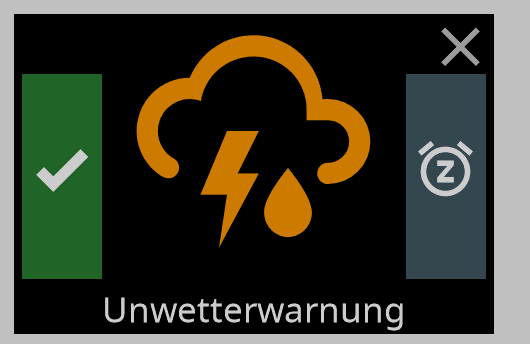
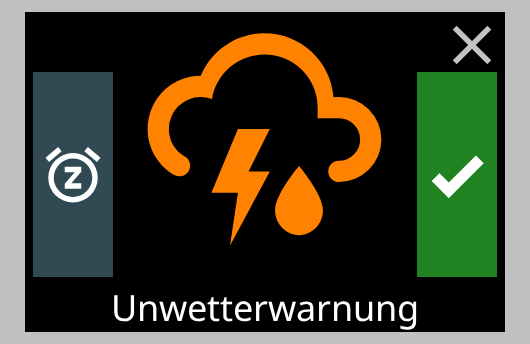
docs(pictures): replace the three wrong images, add three new ones and allow GIF for animations
Three images showed something the text no longer says:

- popupNotify3-01-unwetter: the tick was on the left, against the rule
  right next to it. Now snooze left, tick right, as in the example.
- admin-29-item-langer-druck: the list had five entries, it has six now
  (Only trigger the state).
- notify-03-editor-unten: the dialog now has the section Blinking below.

New:

- pageconfig-08-hide-cards-panel: the service page System with the switch
  Hide Cards; the icon turns green, the switch itself stays blue.
- admin-31-infoicon-popup: the popup of your own info icon.
- notify-04-blinken.gif: the blinking notification background - the one
  thing a still image cannot show.

The picture rule in prompt_admin-doku-links.md now says: PNG has priority,
GIF only for animations a still image cannot show, as a short loop.

All alt texts in DE and EN follow the new images.

Still missing: the closed eye in the page list and the hardware button
dialog with the field Arrow.

diff --git a/doc/de/screensaver.md b/doc/de/screensaver.md
@@ -336,7 +336,7 @@ Im Item-Dialog eines Indikators steht unter der **Aktion beim Drücken** ein zwe
 | **Popup öffnen** | öffnet das Popup des Geräts, zu dem der Indikator gehört. Steht nur in der Auswahl, wenn das Gerät eines hat, siehe [Popup öffnen](#popup-öffnen). |
 | **Nur Datenpunkt auslösen** | schreibt nur `true` in `panels.<Panel>.buttons.indicatorLong-<n>` (siehe unten) – sonst passiert nichts, auch kein Tipp. Für eigene Skripte, die auf den langen Druck reagieren. |
 
-![Der Item-Dialog eines Dimmer-Indikators mit geöffneter Auswahl „Aktion bei langem Drücken“ – hier mit „Popup öffnen“, weil der Kanal ein Dimmer ist](../Pictures/screensaverAdmin/admin-29-item-langer-druck.png)
+![Der Item-Dialog eines Indikators mit geöffneter Auswahl „Aktion bei langem Drücken“ – die sechs Einträge von „keine“ bis „Nur Datenpunkt auslösen“](../Pictures/screensaverAdmin/admin-29-item-langer-druck.png)
 
 - Ab der TFT **6.2.0** löst der lange Druck erst beim **Loslassen** aus: Liegt der Finger **500 ms**, blinkt die Uhrzeit gelb und grün – jetzt kann man loslassen; danach bekommt die Uhrzeit ihre Farbe zurück. Wer vorher loslässt, tippt kurz; eine Wischgeste verwirft auch den langen Druck. Mit der TFT 6.0.9 bis 6.1.x löst er nach 500 ms aus, noch während der Finger liegt. Ist eine Aktion eingestellt, läuft **nur** sie – die Aktion des kurzen Drucks bleibt aus.
 - Ab der TFT **6.2.0** blinken nur Indikatoren, die eine **Aktion bei langem Drücken** haben (auch **Nur Datenpunkt auslösen**). Bei allen anderen bleibt die Uhrzeit ruhig, und auch ein langes Halten ist beim Loslassen ein kurzer Tipp. Der Adapter teilt dem Panel mit, welche Indikatoren gemeint sind; mit einer älteren TFT hat weiterhin jeder Indikator einen langen Druck – dort blinkt die Uhrzeit nie.
@@ -653,6 +653,8 @@ Das Infoicon neben der Uhrzeit lässt sich mit der **TFT 6.2.0** antippen – au
 
 - **Welches Symbol zu sehen ist, entscheidet diese Reihenfolge:** Ein laufender Timer verdrängt alles, danach kommt die Entwickler-Firmware; das Symbol für das Firmware-Update erscheint nur, wenn kein eigenes Infoicon gesetzt ist. Zeigt der Bildschirmschoner eines dieser Symbole, bleibt der State `buttons.infoIcon` aus. Ein [Web-Panel](WebPanel) hat keine TFT-Firmware und zeigt die beiden Firmware-Symbole nie.
 - Das Popup ist das gewohnte Meldungs-Popup mit kleinem Symbol (siehe [Popups](pagePopup)). Es schließt mit dem Kreuz oder nach dem Timeout des Panels; danach steht der Bildschirmschoner wieder da.
+
+![Das Popup zum eigenen Infoicon am Panel: links die blaue Glocke, daneben der Text aus infoText, oben rechts das Kreuz; unten links der Knopf Next, weil noch eine weitere Meldung ansteht](../Pictures/screensaverAdmin/admin-31-infoicon-popup.png)
 - Das Symbol im Popup hat die Farbe, die das Infoicon gerade auf dem Bildschirmschoner hat (beim Timer orange bzw. rot).
 - Der Text steht in Schrift 2 (32 px) – eine Stufe über der 24-px-Schrift, die das Panel ohne Angabe nimmt – und wird an Wortgrenzen umbrochen, nicht mitten im Wort. Passt er nicht ganz hinein, wechseln die Zeilen alle paar Sekunden wie bei jedem Popup.
 

diff --git a/doc/en/screensaver.md b/doc/en/screensaver.md
@@ -336,7 +336,7 @@ In the item dialog of an indicator a second block **Action on long press** stand
 | **Open popup** | opens the popup of the device the indicator belongs to. Only in the choice when the device has one, see [Open popup](#open-popup). |
 | **Only trigger the state** | only writes `true` into `panels.<panel>.buttons.indicatorLong-<n>` (see below) – nothing else happens, no tap either. For own scripts that react on the long press. |
 
-![The item dialog of a dimmer indicator with the choice “Action on long press” opened – here with “Open popup”, because the channel is a dimmer](../Pictures/screensaverAdmin/admin-29-item-langer-druck.png)
+![The item dialog of an indicator with the choice “Action on long press” opened – the six entries from “none” to “Only trigger the state”](../Pictures/screensaverAdmin/admin-29-item-langer-druck.png)
 
 - From the TFT **6.2.0** on the long press fires only when the finger is **lifted**: after **500 ms** of holding the time blinks yellow and green – you can let go now; afterwards the time gets its colour back. Letting go earlier is a short tap; a swipe drops the long press too. With the TFT 6.0.9 to 6.1.x it fires after 500 ms, while the finger is still down. With an action set **only** that action runs – the action of the short press stays out.
 - From the TFT **6.2.0** on only indicators with an **Action on long press** blink (**Only trigger the state** included). With all others the time stays calm, and holding long is a short tap when the finger is lifted. The adapter tells the panel which indicators are meant; with an older TFT every indicator still has a long press – the time never blinks there.
@@ -653,6 +653,8 @@ The info icon next to the clock can be tapped with the **TFT 6.2.0** – also in
 
 - **Which icon is shown follows this order:** a running timer displaces everything, then comes the development firmware; the firmware update icon appears only when no own info icon is set. While the screensaver shows one of those icons, the state `buttons.infoIcon` stays away. A [web panel](WebPanel) has no TFT firmware and never shows the two firmware icons.
 - The popup is the usual notification popup with a small icon (see [Popups](pagePopup)). It closes with the cross or after the timeout of the panel; then the screensaver is back.
+
+![The popup of your own info icon on the panel: the blue bell on the left, the text from infoText next to it, the cross at the top right; at the bottom left the button Next, because another message is waiting](../Pictures/screensaverAdmin/admin-31-infoicon-popup.png)
 - The icon in the popup has the color the info icon has on the screensaver at that moment (orange or red with the timer).
 - The text uses font 2 (32 px) – one size above the 24 px font the panel takes without a setting – and is wrapped at word borders, not inside a word. If it does not fit completely, the lines change every few seconds as in every popup.
 

diff --git a/doc/de/PageConfig.md b/doc/de/PageConfig.md
@@ -193,7 +193,9 @@ Die drei Blätter-Zeilen erscheinen bei **Menü-Seiten** (Grid, Grid2, Grid3, En
 | Wo | Wie |
 |---|---|
 | **Datenpunkt** | `nspanel-lovelace-ui.0.panels.<ID>.cmd.hideCards` (`true`/`false`, Vorgabe `false`) — etwa im Tab *Objekte*, per Skript oder Blockly, ohne Bestätigung (`ack: false`) geschrieben. Die Änderung wirkt sofort, ohne Neustart, und bleibt über Neustarts erhalten. |
-| **Am Panel** | Auf den Serviceseiten (geschützt mit dem *Service-Pin* aus den [globalen Einstellungen](globelSettings)): *Overview* → *System* → Schalter *Hide Cards*. Grün = eingeschaltet. |
+| **Am Panel** | Auf den Serviceseiten (geschützt mit dem *Service-Pin* aus den [globalen Einstellungen](globelSettings)): *Overview* → *System* → Schalter *Hide Cards*. **Das Symbol** links wird grün, sobald eingeschaltet ist, und rot, sobald aus — der Schalter selbst bleibt blau. |
+
+![Die Serviceseite System am Panel: der Eintrag Hide Cards mit grünem Symbol und eingeschaltetem Schalter](../Pictures/pageConfig/pageconfig-08-hide-cards-panel.png)
 
 **Auf die Serviceseiten führt die Seite `///unlock`.** Sie ist kein Code zum Eintippen, sondern ein Navigationsziel: Trage `///unlock` bei einer Seite als *next*, *prev*, *home* oder *parent* ein — in der Auswahl steht sie immer, auch ohne *Systemseiten anzeigen*. Am Panel fragt sie den *Service-Pin* auf einem Ziffernblock ab und führt nach der richtigen Eingabe einmal auf *Overview*. Eine Freischaltung auf Zeit gibt es nicht: Jeder neue Besuch verlangt den Pin erneut. Nach einer falschen Eingabe sperrt der Ziffernblock kurz, mit jedem weiteren Fehlversuch doppelt so lange. Ist kein *Service-Pin* gesetzt, ist der Zugang offen — der Adapter warnt dann beim Start im Log.
 

diff --git a/doc/en/PageConfig.md b/doc/en/PageConfig.md
@@ -193,7 +193,9 @@ The three paging rows appear on **menu pages** (Grid, Grid2, Grid3, Entities, Sc
 | Where | How |
 |---|---|
 | **Datapoint** | `nspanel-lovelace-ui.0.panels.<id>.cmd.hideCards` (`true`/`false`, default `false`) — e.g. in the *Objects* tab, by script or Blockly, written without acknowledgement (`ack: false`). The change takes effect at once, without a restart, and is kept over restarts. |
-| **On the panel** | On the service pages (protected by the *Service PIN* from the [global settings](globelSettings)): *Overview* → *System* → switch *Hide Cards*. Green = on. |
+| **On the panel** | On the service pages (protected by the *Service PIN* from the [global settings](globelSettings)): *Overview* → *System* → switch *Hide Cards*. **The icon** on the left turns green once it is on and red once it is off — the switch itself stays blue. |
+
+![The service page System on the panel: the entry Hide Cards with a green icon and the switch turned on](../Pictures/pageConfig/pageconfig-08-hide-cards-panel.png)
 
 **The page `///unlock` leads to the service pages.** It is not a code to type in but a navigation target: enter `///unlock` on a page as *next*, *prev*, *home* or *parent* — it is always in the list, even without *Show system pages*. On the panel it asks for the *Service PIN* on a number pad and, after the right entry, leads once to *Overview*. There is no unlock for a period of time: every new visit asks for the PIN again. After a wrong entry the number pad is blocked for a short while, and twice as long with every further failed attempt. If no *Service PIN* is set, access is open — the adapter then warns in the log at startup.
 

diff --git a/doc/de/Screensaver-Notify.md b/doc/de/Screensaver-Notify.md
@@ -85,7 +85,7 @@ Eine **quittierte** Meldung bleibt ausgeblendet, auch wenn sich ihr Inhalt ände
 Eine Meldung, die per `sendTo` (`screensaverNotify`) **ohne `id`** oder über `cmd.screenSaver.headingNotification`/`textNotification`/`activateNotification` gesetzt wird, ist nicht im Admin konfiguriert und wird nicht gebremst. Eine Meldung per `sendTo` **mit `id`** wird gebremst wie eine aus der Liste, siehe [Per Skript](#11-per-skript-sendto-screensavernotify).
 
 ## 3. Wann anzeigen: Datenpunkte und Bedingung
-![Datenpunkte, Bedingung, Priorität, Quittieren und Summer](../Pictures/screensaverAdmin/notify-03-editor-unten.png)
+![Der untere Teil des Dialogs: Datenpunkte, Bedingung, Priorität, Quittieren, Gruppen-ID, Summer und der Abschnitt Blinken mit dem Haken „Hintergrund blinkt“](../Pictures/screensaverAdmin/notify-03-editor-unten.png)
 
 
 | Feld | Wirkung |
@@ -198,6 +198,8 @@ Eine einzelne Benachrichtigung kann zusätzlich auf sich aufmerksam machen: Ihr 
 |---|---|
 | **Hintergrund blinkt** | Schaltet das Blinken für diese Benachrichtigung ein. Ohne Haken blinkt nichts. |
 | **Zweite Farbe** | Erscheint mit dem Haken, vorbelegt mit Dunkelrot (`#9c201a`). Die erste Farbe ist immer der Hintergrund aus dem Farbthema. |
+
+![Die Schlagzeile am Panel: Ihr Hintergrund wechselt zwischen dem Grau des Farbthemas und der zweiten Farbe (animiert)](../Pictures/screensaverAdmin/notify-04-blinken.gif)
 
 Das Panel blinkt selbst – der Adapter schickt die Meldung nur einmal. Das Blinken endet, sobald die Benachrichtigung verschwindet (Datenpunkt aus, weggetippt) oder eine andere ohne Blinken an ihre Stelle tritt.
 

diff --git a/doc/en/Screensaver-Notify.md b/doc/en/Screensaver-Notify.md
@@ -85,7 +85,7 @@ A **dismissed** message stays hidden, also when its content changes – it only 
 A message set by `sendTo` (`screensaverNotify`) **without `id`** or through `cmd.screenSaver.headingNotification`/`textNotification`/`activateNotification` is not configured in the admin and is not throttled. A message by `sendTo` **with `id`** is throttled like one of the list, see [From a script](#11-from-a-script-sendto-screensavernotify).
 
 ## 3. When to show: states and condition
-![States, condition, priority, dismissing and buzzer](../Pictures/screensaverAdmin/notify-03-editor-unten.png)
+![The lower part of the dialog: states, condition, priority, dismissing, group id, buzzer and the section Blinking with the tick “Background blinks”](../Pictures/screensaverAdmin/notify-03-editor-unten.png)
 
 
 | Field | Effect |
@@ -198,6 +198,8 @@ A single notification can draw attention to itself on top: its background then a
 |---|---|
 | **Background blinks** | Switches the blinking on for this notification. Without the tick nothing blinks. |
 | **Second colour** | Appears with the tick, preset to dark red (`#9c201a`). The first colour is always the background of the colour theme. |
+
+![The headline on the panel: its background alternates between the grey of the colour theme and the second colour (animated)](../Pictures/screensaverAdmin/notify-04-blinken.gif)
 
 The panel blinks by itself – the adapter sends the message only once. The blinking ends as soon as the notification disappears (state off, tapped away) or another one without blinking takes its place.
 

diff --git a/doc/de/pagePopup.md b/doc/de/pagePopup.md
@@ -174,7 +174,7 @@ Symbol vor der Überschrift.
 
 | Unwetter mit zwei Knöpfen | Besetzt, ohne Knöpfe | Langer Text in einer Zeile | 24 px in zwei Zeilen |
 |---|---|---|---|
-| ![Großes orangefarbenes Gewittersymbol, links ein grüner Knopf mit Haken, rechts ein grauer Knopf mit Wecker, darunter „Unwetterwarnung“](../Pictures/pageNotify/popupNotify3-01-unwetter.png) | ![Rotes Verbotsschild ohne Knöpfe, darunter „WC besetzt“](../Pictures/pageNotify/popupNotify3-02-besetzt.png) | ![Waschmaschine mit Warnzeichen und einem Knopf rechts, darunter „Waschmaschine: Störung“ über die ganze Breite](../Pictures/pageNotify/popupNotify3-03-waschmaschine.png) | ![Mit textSize 0 steht der Text kleiner in zwei Zeilen](../Pictures/pageNotify/popupNotify3-04-zweizeilig-24px.png) |
+| ![Großes orangefarbenes Gewittersymbol, links ein grauer Knopf mit Wecker (später), rechts ein grüner Knopf mit Haken (quittieren), darunter „Unwetterwarnung“](../Pictures/pageNotify/popupNotify3-01-unwetter.png) | ![Rotes Verbotsschild ohne Knöpfe, darunter „WC besetzt“](../Pictures/pageNotify/popupNotify3-02-besetzt.png) | ![Waschmaschine mit Warnzeichen und einem Knopf rechts, darunter „Waschmaschine: Störung“ über die ganze Breite](../Pictures/pageNotify/popupNotify3-03-waschmaschine.png) | ![Mit textSize 0 steht der Text kleiner in zwei Zeilen](../Pictures/pageNotify/popupNotify3-04-zweizeilig-24px.png) |
 
 Voraussetzung ist ein Panel mit **TFT 6.2.0 oder neuer** oder ein Web-Panel. Ein Panel mit älterer TFT zeigt
 dieselbe Meldung klassisch.

diff --git a/doc/en/pagePopup.md b/doc/en/pagePopup.md
@@ -173,7 +173,7 @@ in front of the headline.
 
 | Severe weather with two buttons | Occupied, no buttons | Long text in one line | 24 px in two lines |
 |---|---|---|---|
-| ![Big orange thunderstorm icon, a green button with a tick on the left, a grey button with an alarm clock on the right, "Unwetterwarnung" below](../Pictures/pageNotify/popupNotify3-01-unwetter.png) | ![Red prohibition sign without buttons, "WC besetzt" below](../Pictures/pageNotify/popupNotify3-02-besetzt.png) | ![Washing machine with an alert sign and one button on the right, "Waschmaschine: Störung" below across the full width](../Pictures/pageNotify/popupNotify3-03-waschmaschine.png) | ![With textSize 0 the text is smaller and in two lines](../Pictures/pageNotify/popupNotify3-04-zweizeilig-24px.png) |
+| ![Big orange thunderstorm icon, a grey button with an alarm clock (later) on the left, a green button with a tick (dismiss) on the right, "Unwetterwarnung" below](../Pictures/pageNotify/popupNotify3-01-unwetter.png) | ![Red prohibition sign without buttons, "WC besetzt" below](../Pictures/pageNotify/popupNotify3-02-besetzt.png) | ![Washing machine with an alert sign and one button on the right, "Waschmaschine: Störung" below across the full width](../Pictures/pageNotify/popupNotify3-03-waschmaschine.png) | ![With textSize 0 the text is smaller and in two lines](../Pictures/pageNotify/popupNotify3-04-zweizeilig-24px.png) |
 
 It needs a panel with **TFT 6.2.0 or newer** or a web panel. A panel with an older TFT shows the same message the
 classic way.

diff --git a/doc/prompt_admin-doku-links.md b/doc/prompt_admin-doku-links.md
@@ -234,7 +234,9 @@ beide Seiten dieselbe Struktur vorfinden.
 ### Bilder
 
 - Ablage `doc/Pictures/<thema>/<nr>-<kurzname>.png` — ein Ordner je Seite/Thema (`maintain`, `developer`,
-  `pageConfigDialoge`, `screensaverAdmin` …), fortlaufende Nummer, deutscher Kurzname, nur PNG.
+  `pageConfigDialoge`, `screensaverAdmin` …), fortlaufende Nummer, deutscher Kurzname. **PNG hat Vorrang.**
+  **GIF nur für Animationen**, die ein Standbild nicht zeigen kann (Blinken, Farbwechsel, Ablauf) — als kurze Schleife
+  mit wenigen Frames, Maß wie die Standbilder daneben. Alles andere bleibt PNG.
 - **Ein Bild für beide Sprachen:** derselbe Pfad in DE und EN, nur der Alt-Text ist übersetzt.
   Einbinden mit `![Alt-Text](../Pictures/<thema>/<datei>.png)`; Roh-`<img>` nur, wenn die Breite begrenzt werden muss.
 - Der Alt-Text beschreibt, **was zu sehen ist und warum** („Die Karte eines Panels mit dem Feld Berry-Treiber und
